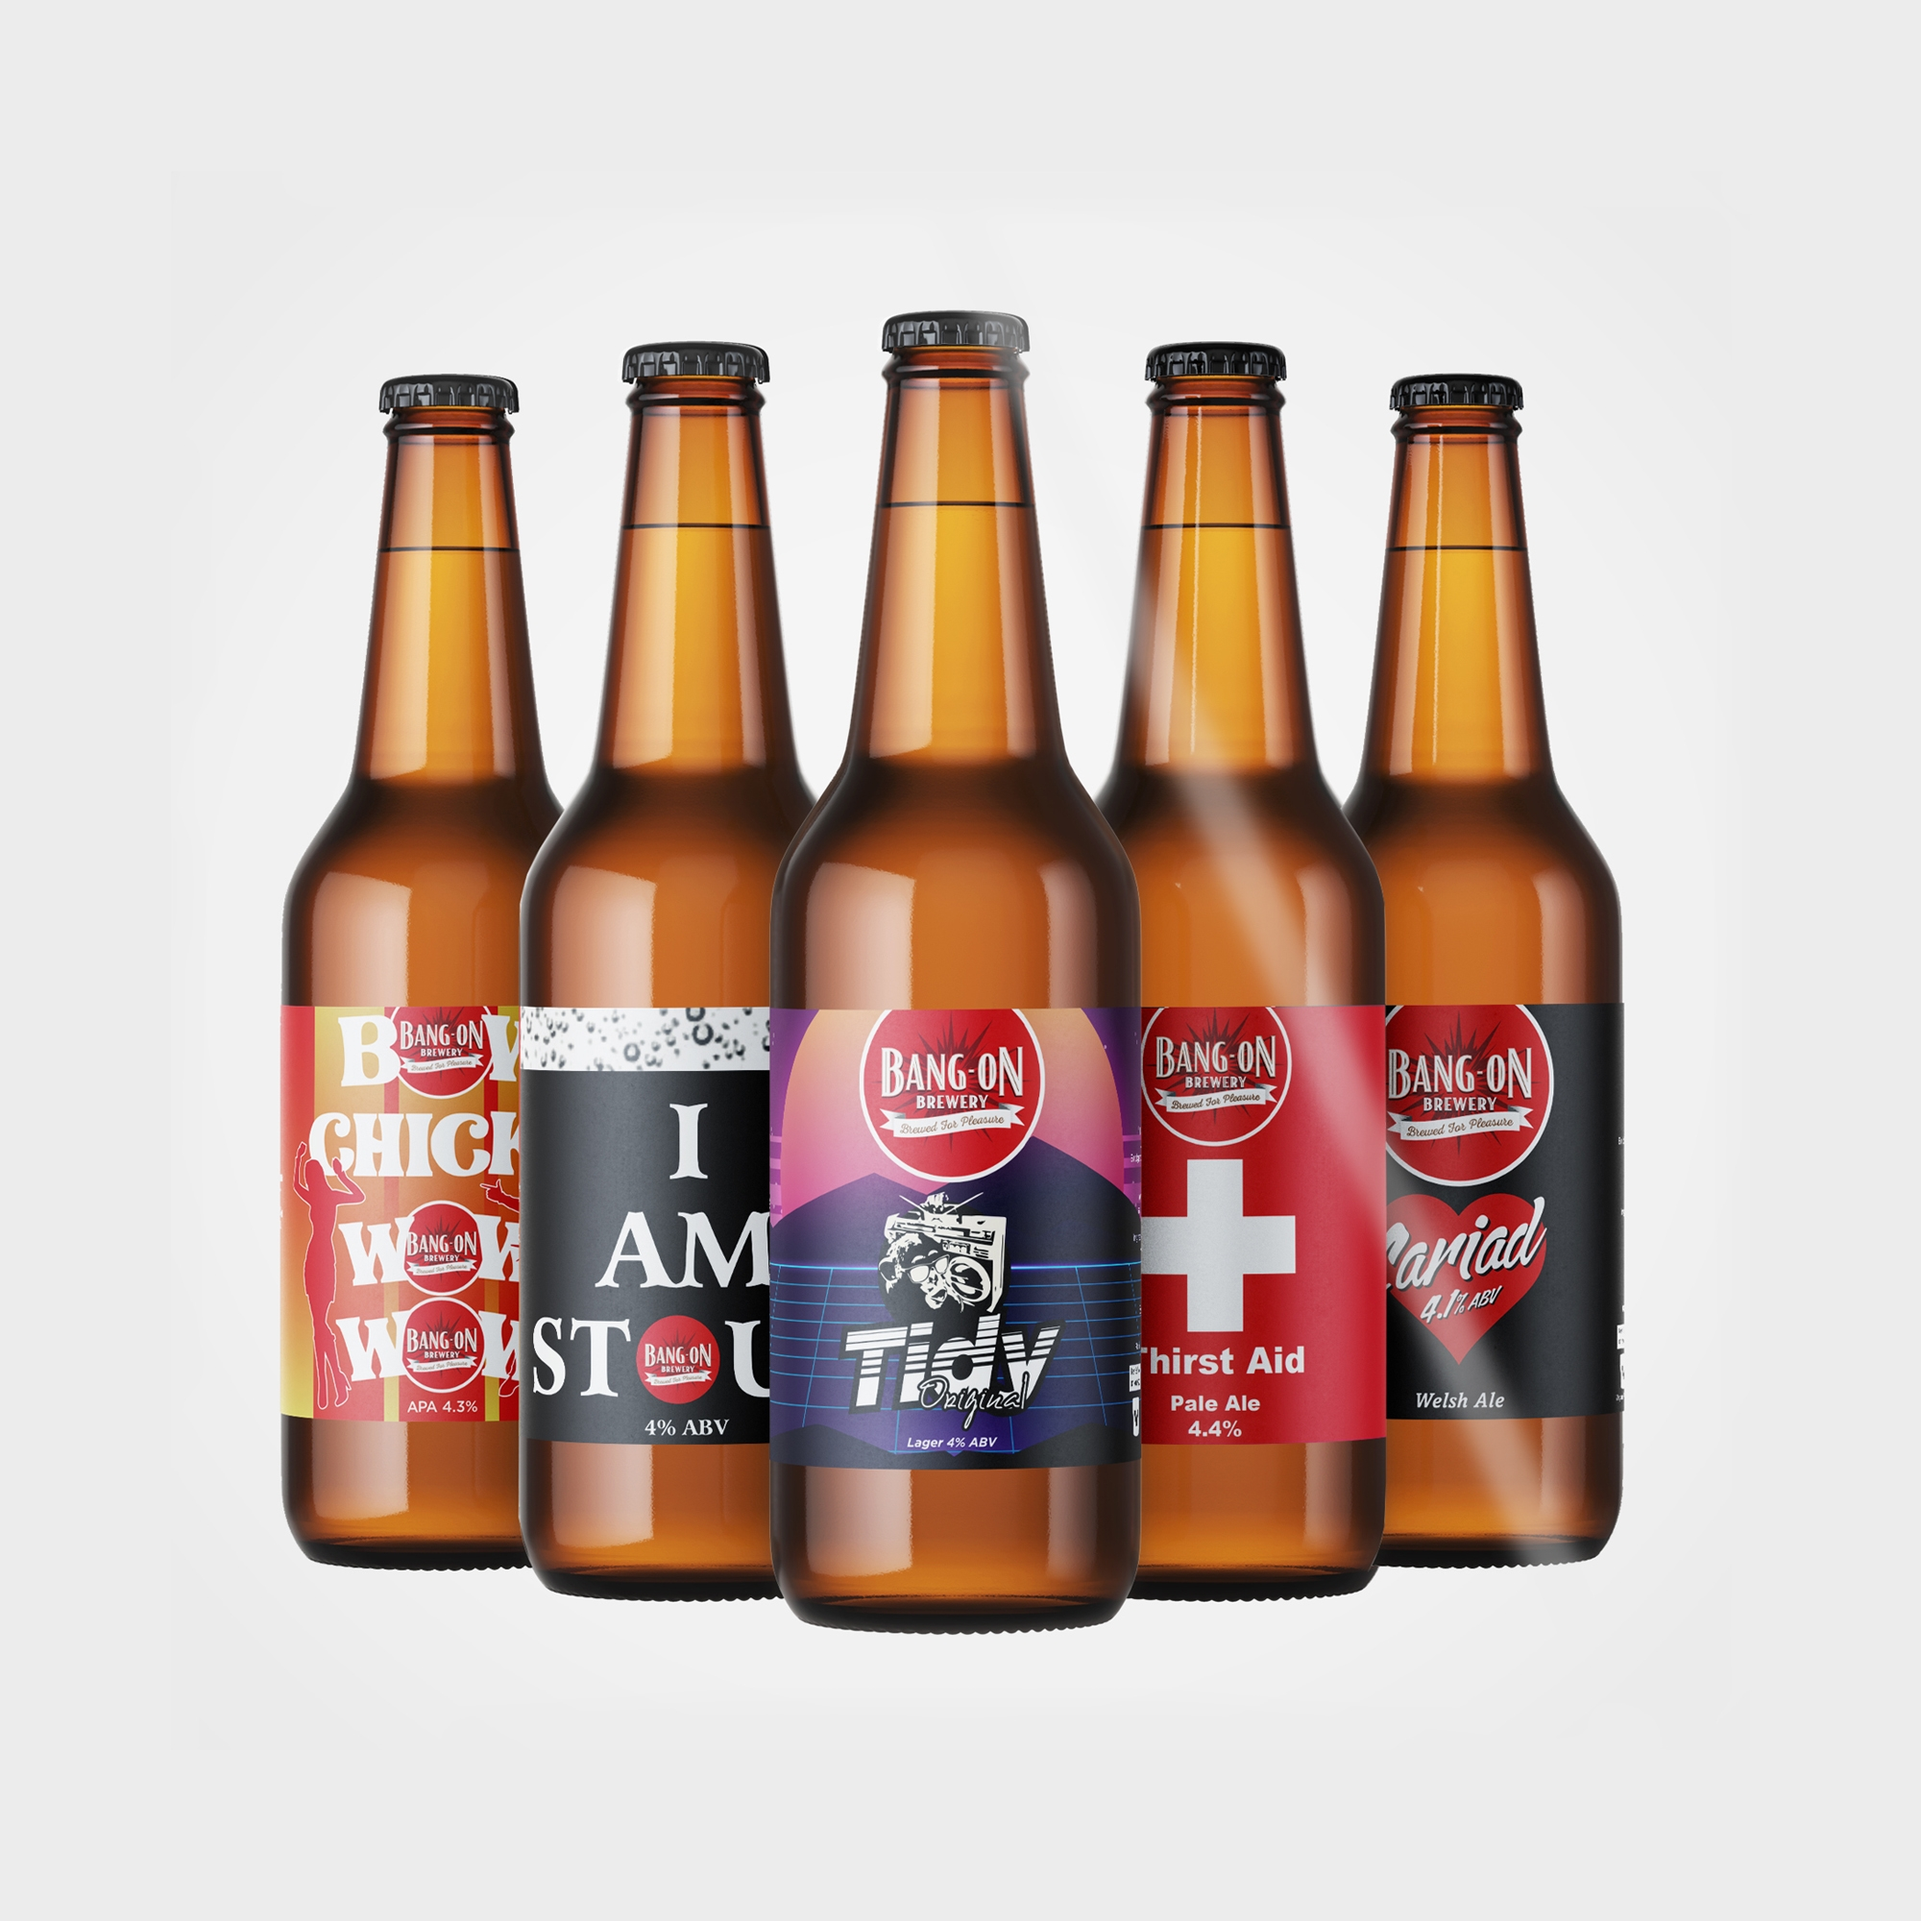
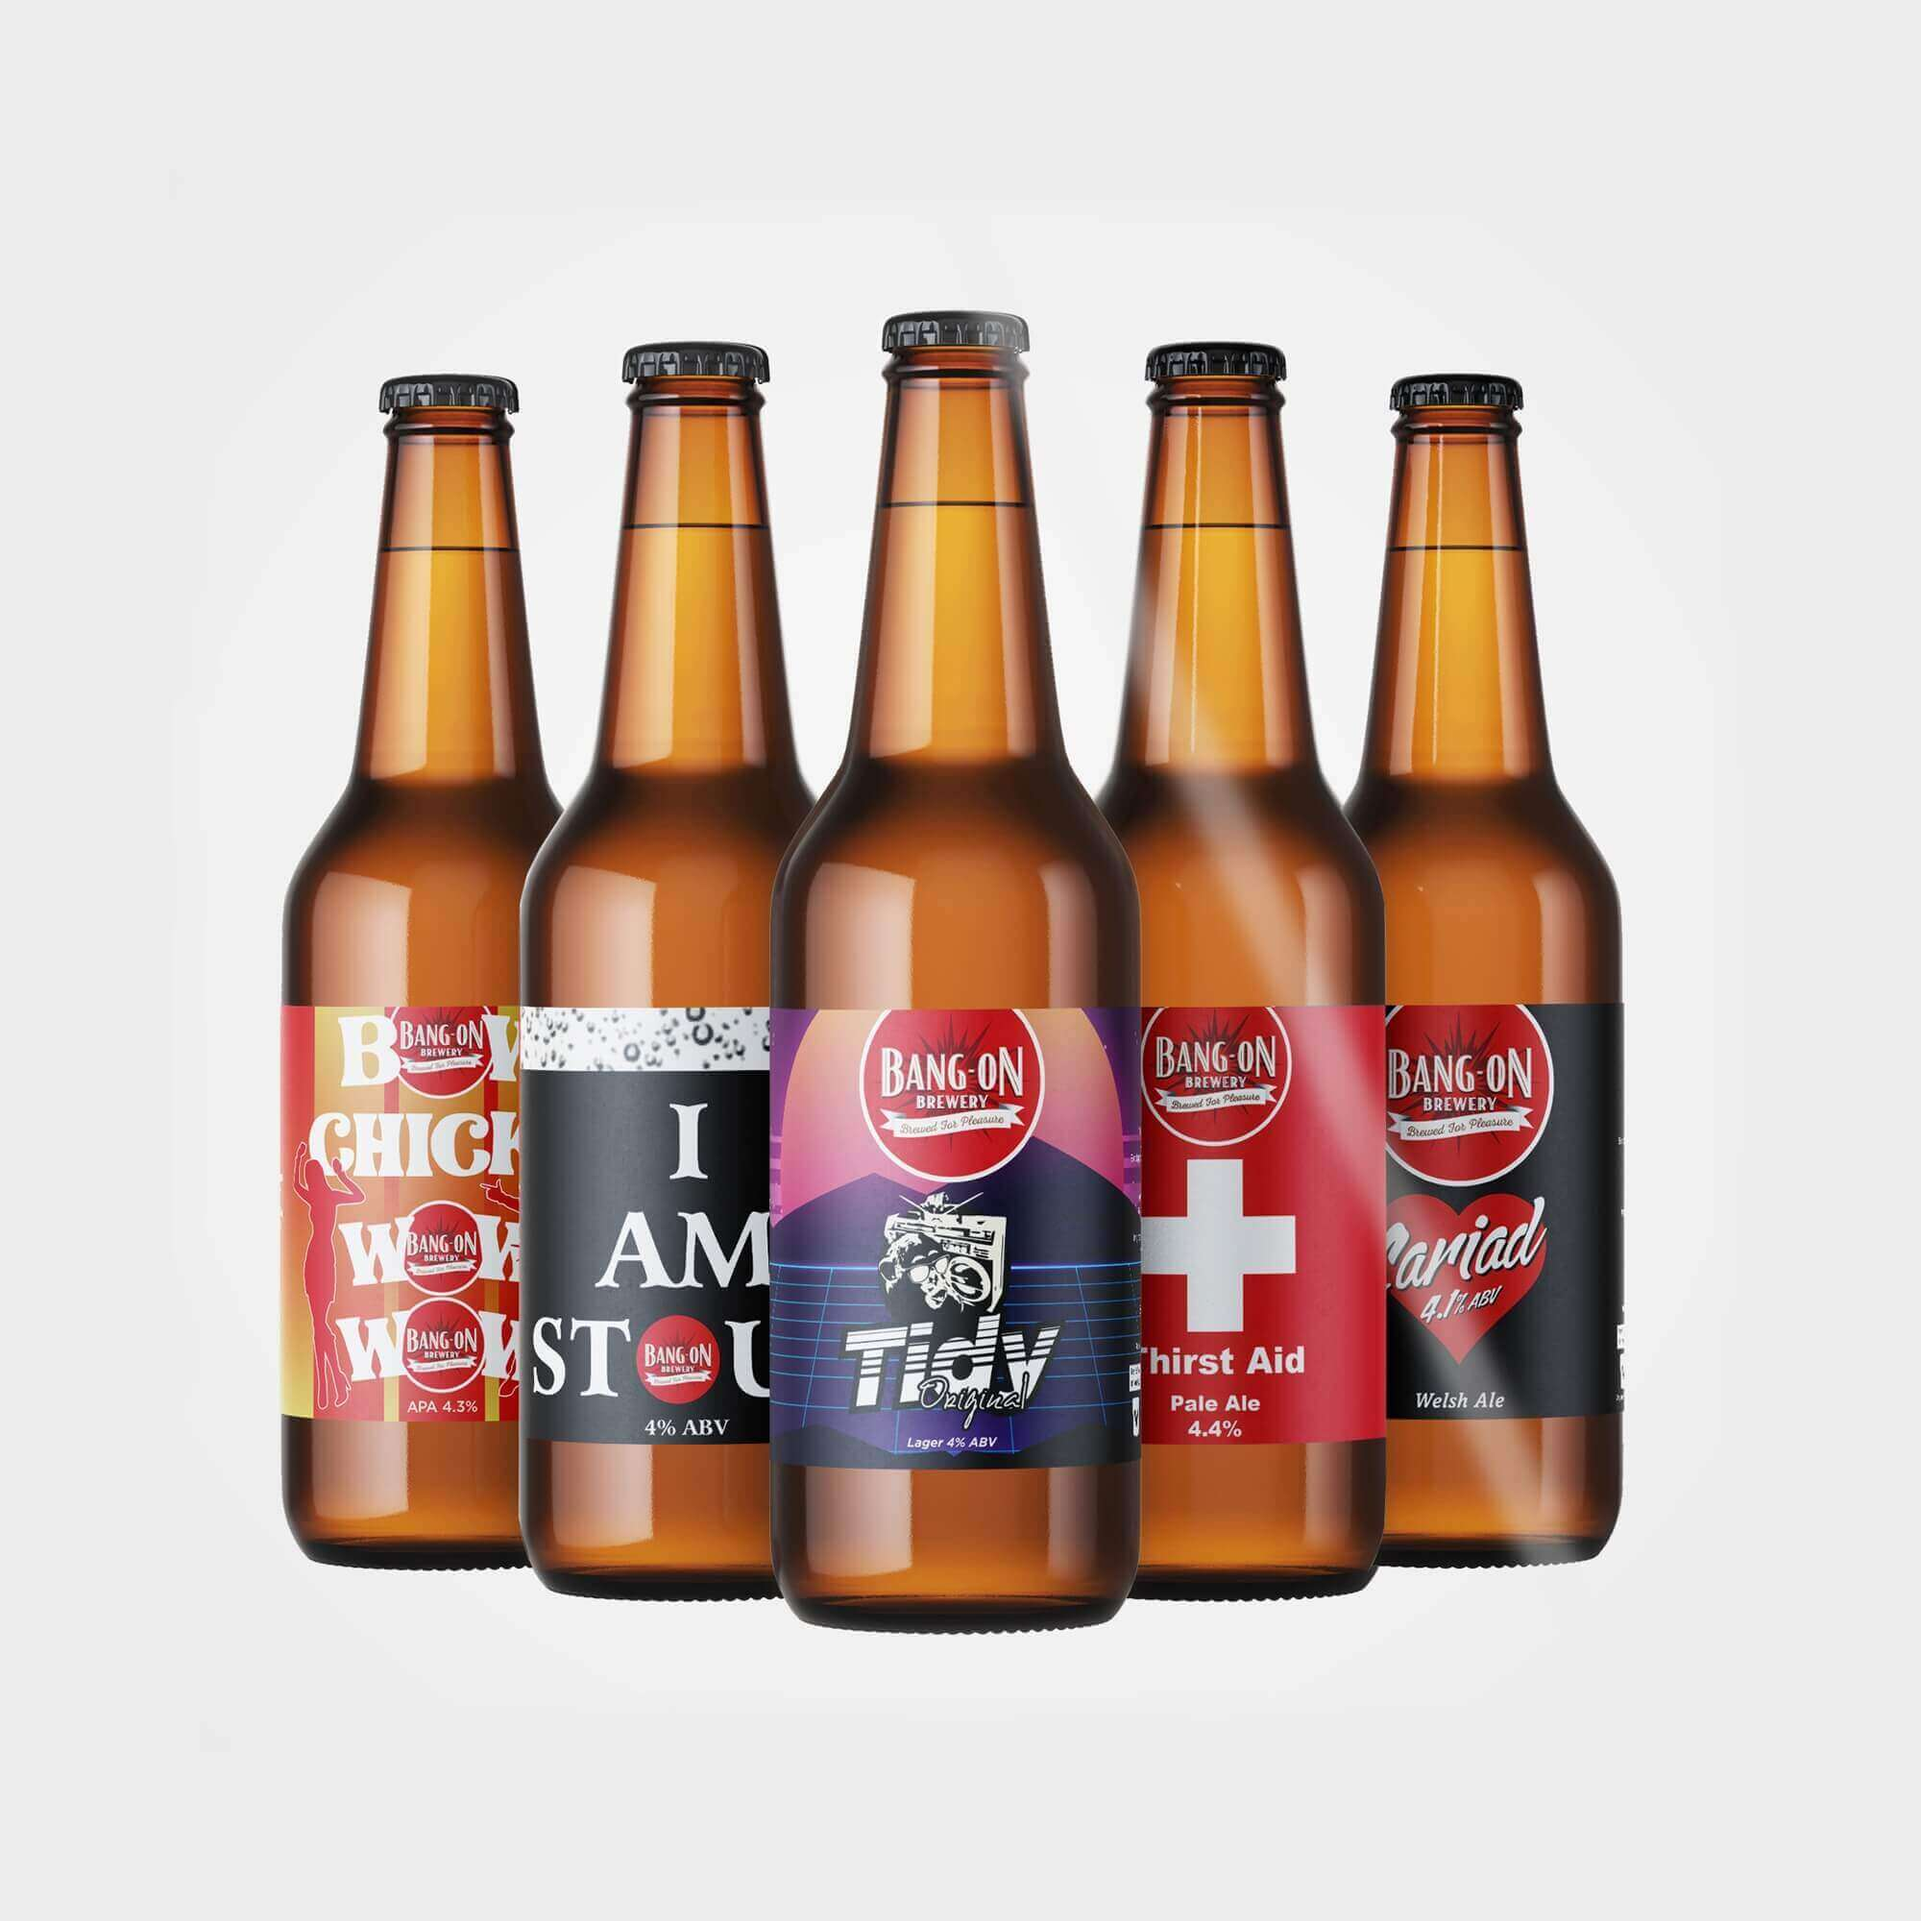
small fixes
compressed-images for quicker loading,
fixed width of toast,
added font-shadow to header,
postcode on branch-search now handles whitespace,
"commended" is now "recommended" on awards page

diff --git a/js/index.js b/js/index.js
@@ -23,7 +23,7 @@ $(function(){
     $("#branch-search-result").addClass("invisible d-none");
     $("#branch-search-error").addClass("invisible d-none");
 
-    $.get("https://phoenix.camra.org.uk/api/v1/branch-finder", {postcode: $("#branch-search").val() }).done(function(data){
+    $.get("https://phoenix.camra.org.uk/api/v1/branch-finder", {postcode: $("#branch-search").val().replace(/\s/g, "") }).done(function(data){
       $("#static-branch-name").val(data['name']);
       $("#static-branch-contact").val(data['contact'] ? data['contact']['name'] : "unknown");
       $("#static-branch-email").val(data["contact"] ? data["contact"]["email"] : "unknown");

diff --git a/templates/header.html b/templates/header.html
@@ -52,6 +52,6 @@
 
 <!-- backdrop with page title -->
 <div class="bgimg-1 my-auto d-flex flex-column justify-content-center align-items-center">
-  <span class="display-2 d-inline-flex p-3 my-2 bg-darkish text-light text-wide-lg">CAMRA</span>
-  <span class="display-6 d-inline-flex p-3 bg-darkish text-light text-wide text-center">Vale of Glamorgan and Bridgend</span>
+  <span class="display-2 d-inline-flex p-3 my-2 bg-darkish text-light text-wide-lg text-shadow">CAMRA</span>
+  <span class="display-6 d-inline-flex p-3 bg-darkish text-light text-wide text-center text-shadow">Vale of Glamorgan and Bridgend</span>
 </div>

diff --git a/templates/footer.html b/templates/footer.html
@@ -5,7 +5,7 @@
   }, 30000); // 30 seconds until toast pops up
 </script>
 <div class="position-fixed bottom-0 end-0 p-3" style="z-index: 11">
-  <div id="liveToast" class="toast" role="alert" aria-live="assertive" aria-atomic="true" data-bs-autohide="false">
+  <div id="liveToast" class="toast w-100" role="alert" aria-live="assertive" aria-atomic="true" data-bs-autohide="false">
     <div class="toast-header">
       <strong class="me-auto">Your Opinions Matter</strong>
       <button type="button" class="btn-close" data-bs-dismiss="toast" aria-label="Close"></button>

diff --git a/awards.html b/awards.html
@@ -165,7 +165,7 @@
 
             </div>
 
-            <h3 class="fw-light text-muted my-5">Vale of Glamorgan and Bridgend "Highly Commended" Pub of the Year</h3>
+            <h3 class="fw-light text-muted my-5">Highly Recommended Pubs</h3>
 
             <div class="row row-cols-1 row-cols-md-3 g-4">
               <!-- award cards -->

diff --git a/css/index.css b/css/index.css
@@ -45,6 +45,10 @@ a {
   background-color: var(--bs-gray-800, #343a40);
 }
 
+.text-shadow {
+  text-shadow: 1px 2px 4px black;
+}
+
 #info-banner {
   border-radius: 0;
 }
